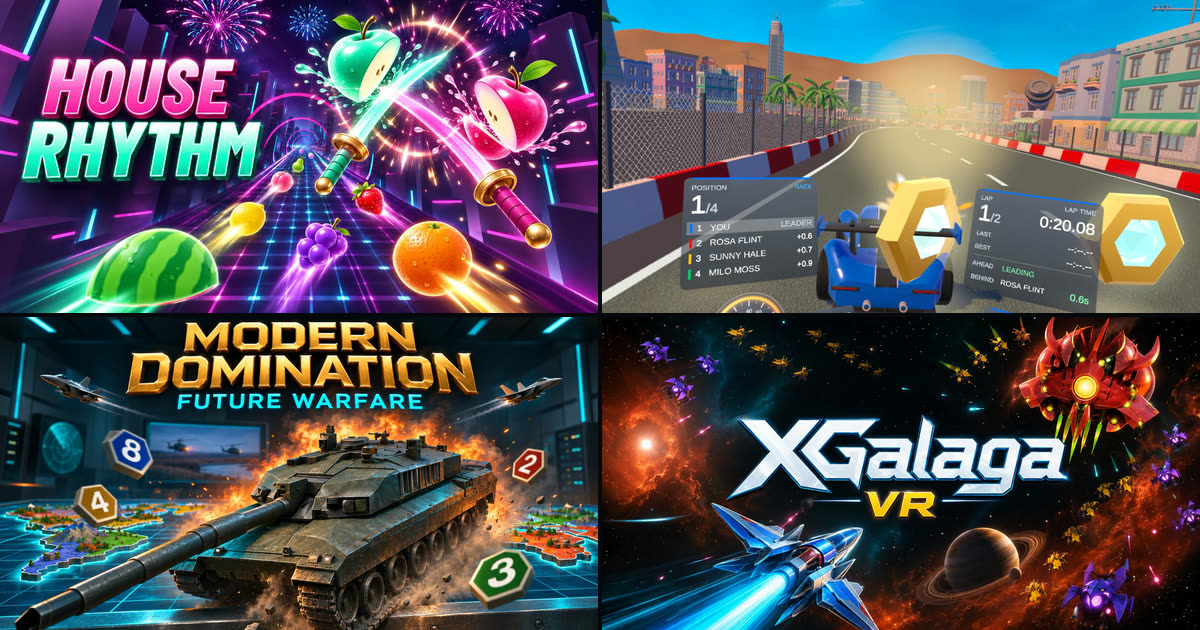
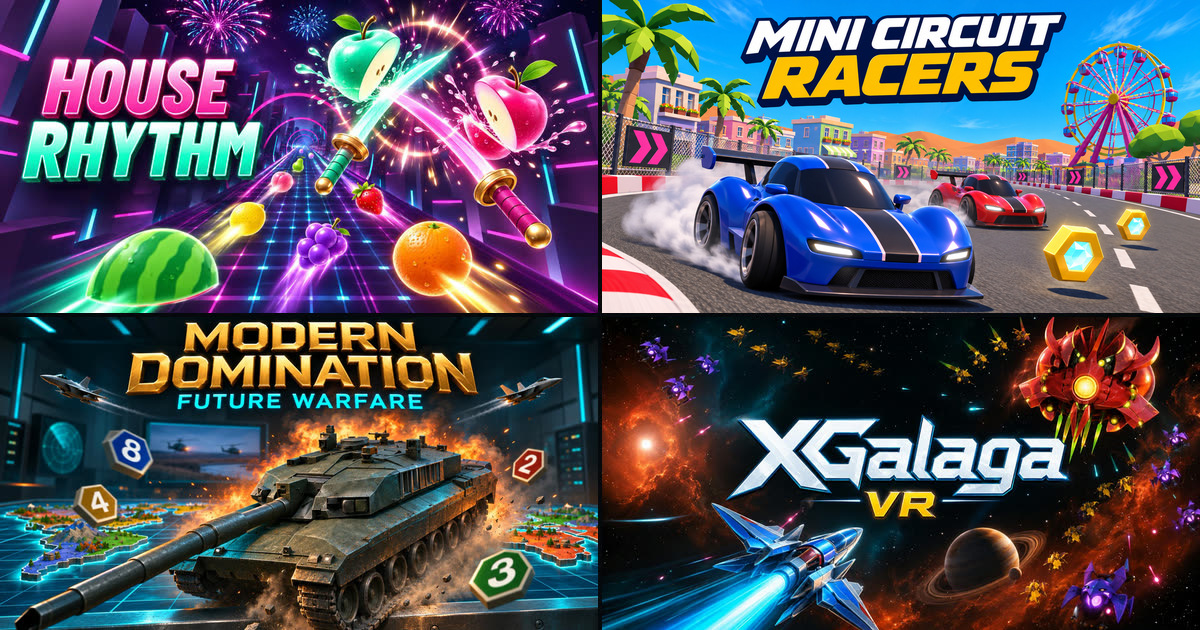
Use Mini Circuit Racers store cover art on the site

Changed region(s): [[0.4933, 0.0, 1.0, 0.5127]]

diff --git a/mini-circuit-racers-vr/index.html b/mini-circuit-racers-vr/index.html
@@ -7,7 +7,7 @@
 <meta name="description" content="Mini Circuit Racers for Meta Quest 3 and 3S: arcade circuit racing from the driver's seat. Drift the hairpins, grab power nuts, drop oil on your rivals, and race up to four headsets online. Out now on Meta Quest.">
 <meta property="og:title" content="Mini Circuit Racers VR">
 <meta property="og:description" content="Arcade circuit racing from the driver's seat. Eight circuits, four cars, brake drifting, pickups and online races for up to four headsets. Out now on Meta Quest.">
-<meta property="og:image" content="https://mikewickens.github.io/img/mini-circuit-racers-vr/card.jpg">
+<meta property="og:image" content="https://mikewickens.github.io/img/mini-circuit-racers-vr/card.jpg?v=20261125">
 <meta property="og:type" content="website">
 <meta name="theme-color" content="#06080d">
 <link rel="icon" href="../img/brand/favicon-64.png">
@@ -81,7 +81,7 @@
     <div class="hero-media">
       <figure style="width:100%">
         <div class="frame-wide">
-          <img src="../img/mini-circuit-racers-vr/hero.jpg" alt="The blue GT3 leading round the funfair at Neon Strip, the race positions and lap time floating beside it">
+          <img src="../img/mini-circuit-racers-vr/card.jpg?v=20261125" alt="Mini Circuit Racers cover art showing a blue race car drifting past a Ferris wheel">
         </div>
       </figure>
     </div>

diff --git a/index.html b/index.html
@@ -514,7 +514,7 @@
       </a>
 
       <a class="app-card theme-mini-circuit" href="mini-circuit-racers-vr/" data-tags="quest">
-        <div class="art" style="background-image:url('img/mini-circuit-racers-vr/card.jpg')"><span class="pill pill-live">Out now</span></div>
+        <div class="art" style="background-image:url('img/mini-circuit-racers-vr/card.jpg?v=20261125')"><span class="pill pill-live">Out now</span></div>
         <div class="body">
           <div class="head"><img src="img/icons/mini-circuit-racers-vr.jpg" alt=""><div><h3>Mini Circuit Racers</h3><div class="kind">Arcade racing for Meta Quest</div></div></div>
           <p>Race three rivals round eight circuits from the cockpit. Drift the hairpins, grab power nuts for a turbo, a spare tyre or oil, and race up to four headsets online.</p>

diff --git a/quest/index.html b/quest/index.html
@@ -7,7 +7,7 @@
 <meta name="description" content="House Rhythm, Mini Circuit Racers, Modern Domination - Future Warfare and XGalaga VR: every MW Design game for Meta Quest, each with its Meta Horizon Store link.">
 <meta property="og:title" content="MW Design games for Meta Quest">
 <meta property="og:description" content="House Rhythm, Mini Circuit Racers, Modern Domination - Future Warfare and XGalaga VR, all on the Meta Horizon Store.">
-<meta property="og:image" content="https://mikewickens.github.io/img/quest-share.jpg">
+<meta property="og:image" content="https://mikewickens.github.io/img/quest-share.jpg?v=20261125">
 <meta property="og:url" content="https://mikewickens.github.io/quest/">
 <meta property="og:type" content="website">
 <meta name="twitter:card" content="summary_large_image">
